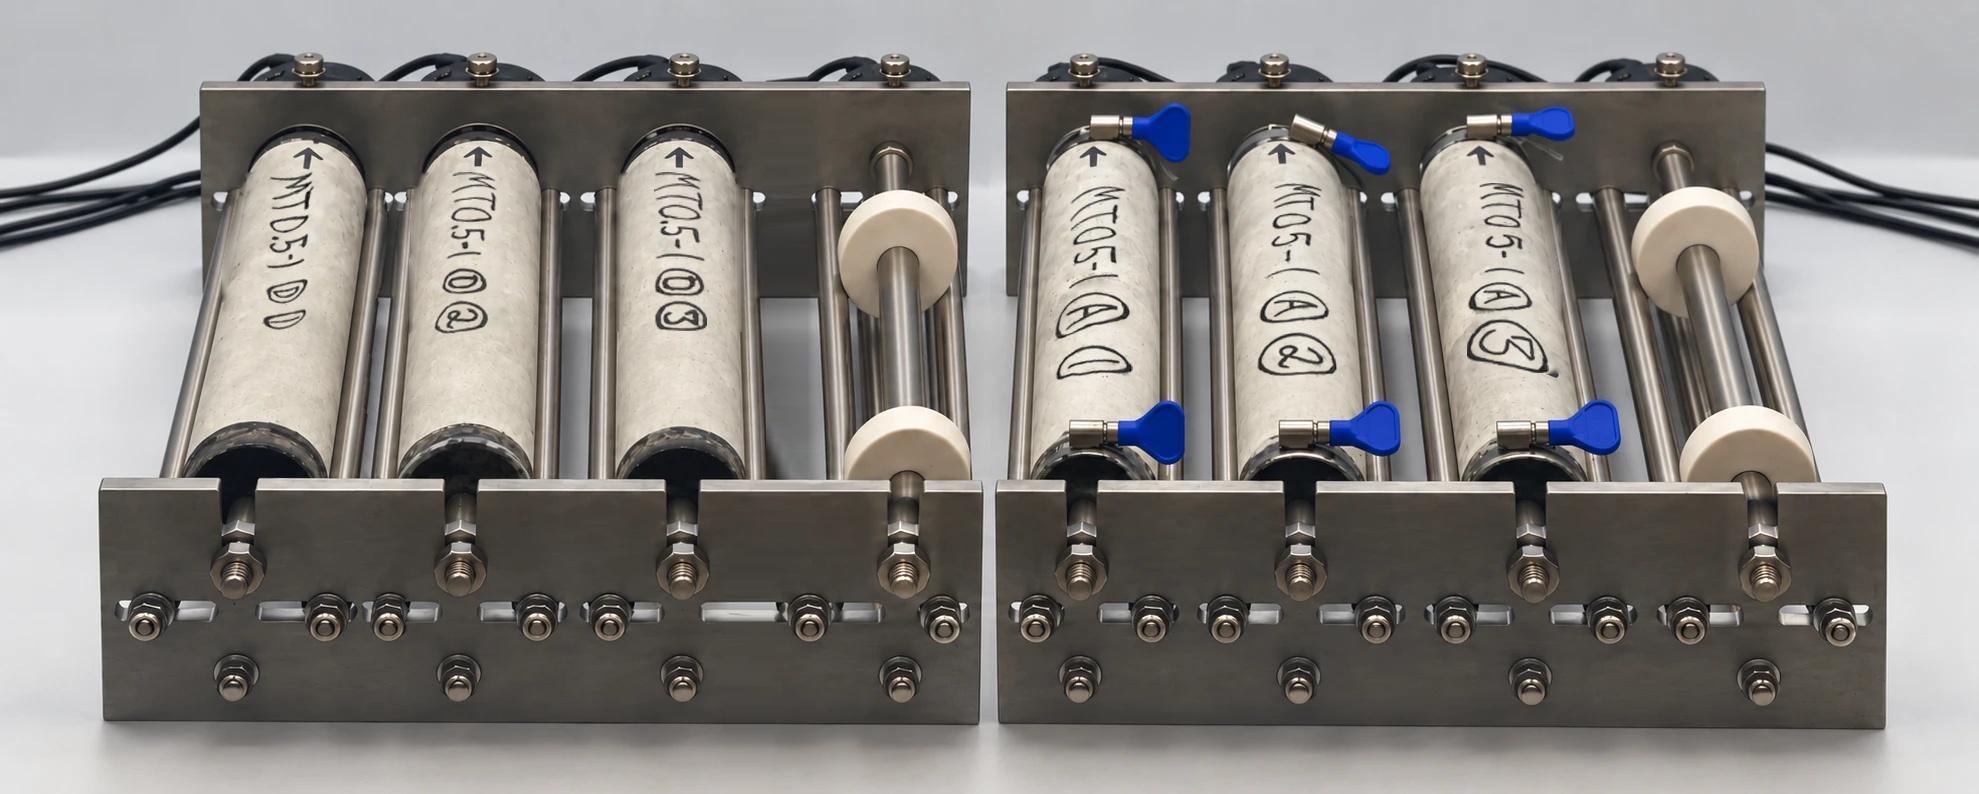
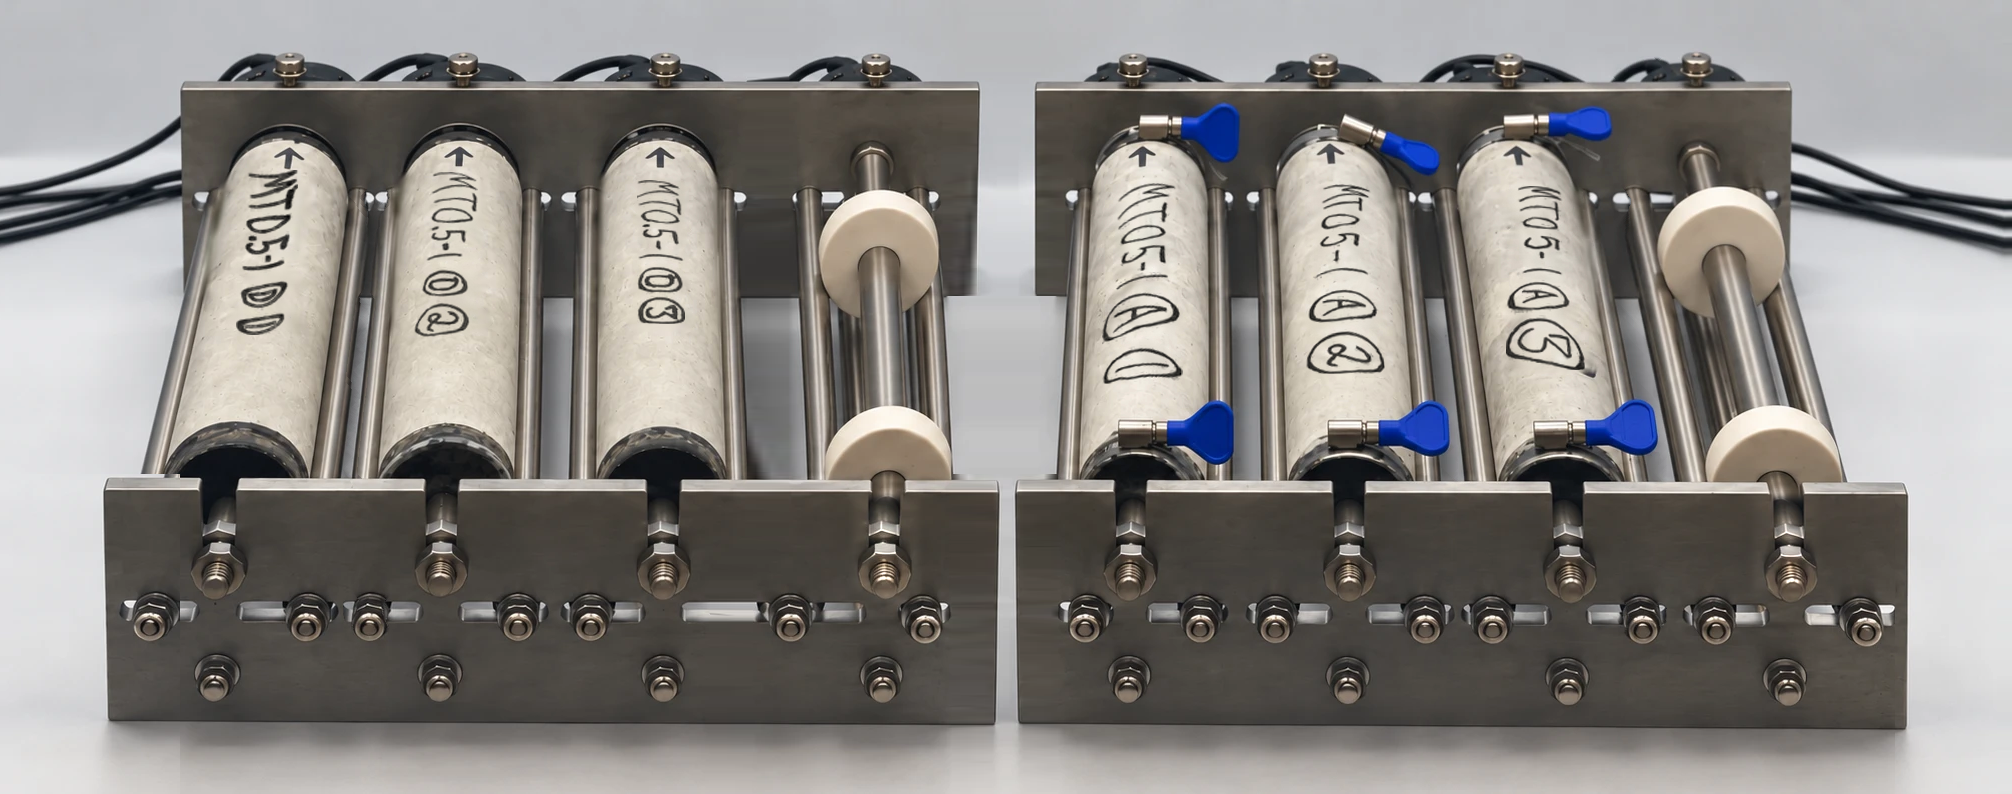
Fix frame proportions and label quality in edited Figure 1
- Labels: erase the AI text with FSR inpainting (rebuilds concrete texture
  instead of smearing), unwrap D1 from the cylinder surface so it is not
  foreshortened, keep the decimal points, one scale per photo series
- Frames: centre the bays in each front plate (end margins = half a bay, as
  measured on the real rig), centre the back plates over the specimens and
  even out the right frame's bays; plate is added/removed only in plain areas

Claude-Session: https://claude.ai/code/session_017fwkAQjt5JYwLzDNEhCw96

diff --git a/figures/relabel.py b/figures/relabel.py
@@ -14,6 +14,8 @@ SRC={'D1':(425,990,515,1120),'D2':(588,959,668,1096),'D3':(743,958,797,1082),
 # specimen axis angle in the photos (deg from vertical, + = top leans left), measured
 # from the cylinder edges; the text is rotated by this so it runs along the specimen
 AXIS={'D1':-18.4,'D2':-6.7,'D3':0.0,'A1':-16.0,'A2':-7.1,'A3':3.6}
+# one scale per photo so the handwriting size is consistent (A photo is ~7% closer)
+SCALE={'D':1.30,'A':1.22}
 DST={'D1':(222,172,342,342),'D2':(438,172,562,338),'D3':(652,172,778,332),
      'A1':(1042,186,1152,382),'A2':(1247,183,1352,377),'A3':(1447,183,1562,374)}
 
@@ -40,7 +42,35 @@ def keep_text(ink):
     ink&=~np.isin(lab,thin)
     grp,m=ndimage.label(ndimage.binary_dilation(ink,iterations=9))
     sz=ndimage.sum(ink,grp,range(1,m+1))
-    return ink&np.isin(grp,1+np.where(sz>=0.08*sz.sum())[0])
+    ink&=np.isin(grp,1+np.where(sz>=0.08*sz.sum())[0])
+    lab,n=ndimage.label(ink); sz=ndimage.sum(ink,lab,range(1,n+1))
+    return np.isin(lab,1+np.where(sz>=5)[0])
+
+# D1: axis point, axis direction (down the specimen) and radius, measured from the
+# cylinder edges at the label height in the D photo (unflipped)
+D1_CYL=dict(p0=(498.0,1000.0),d=(-0.3,1.0),R=44.0,t=(-35,165),s=(-0.97,0.97))
+
+def unwrap(rgb,p0,d,R,t,s):
+    """Sample the cylinder surface on a (along-axis, arc-length) grid, so text written
+    on the curving side is shown at its true proportions; axis ends up vertical."""
+    d=np.float32(d)/np.hypot(*d); n=np.float32([d[1],-d[0]])
+    if n[0]<0: n=-n
+    T=np.arange(t[0],t[1],dtype=np.float32)
+    S=np.arange(int(s[0]*R*np.pi/2),int(s[1]*R*np.pi/2),dtype=np.float32)
+    TT,SS=np.meshgrid(T,S,indexing='ij'); u=R*np.sin(SS/R)
+    mx=p0[0]+TT*d[0]+u*n[0]; my=p0[1]+TT*d[1]+u*n[1]
+    return cv2.remap(rgb,mx.astype(np.float32),my.astype(np.float32),cv2.INTER_CUBIC)
+
+def lift_d1(rgb_unflipped,thr=40):
+    reg=unwrap(rgb_unflipped,**D1_CYL)[::-1,::-1].copy()   # rotate 180: read like D2/D3
+    H,W=reg.shape[:2]; m=12
+    ink=np.zeros((H,W),bool); ink[m:-m,m:-m]=keep_text(ink_mask(reg,(m,m,W-m,H-m),thr,min_peak=90))
+    mm=ndimage.binary_dilation(ink,iterations=2)
+    clean=cv2.inpaint(reg,(mm*255).astype(np.uint8),5,cv2.INPAINT_TELEA).astype(np.float32)
+    f=np.where(mm,reg.astype(np.float32).mean(2)/np.maximum(clean.mean(2),1),1.0).clip(0,1)
+    f=cv2.erode(f,np.ones((2,2),np.uint8))
+    ys,xs=np.nonzero(ink)
+    return f[ys.min():ys.max()+2,xs.min():xs.max()+2]
 
 def lift(rgb,box,ang,thr=45):
     """Return a grey 'ink factor' patch (1 = no ink), rotated so the text runs vertically."""
@@ -58,22 +88,35 @@ def lift(rgb,box,ang,thr=45):
     ys,xs=np.nonzero(ir)
     return fr[ys.min():ys.max()+1,xs.min():xs.max()+1], ang
 
+def erase(img,mask,k=None,pad=40):
+    """Remove the AI text with frequency-selective-reconstruction inpainting
+    (cv2.xphoto, FSR), which rebuilds the concrete texture rather than smearing it."""
+    ys,xs=np.nonzero(mask)
+    y0,y1=max(ys.min()-pad,0),ys.max()+pad; x0,x1=max(xs.min()-pad,0),xs.max()+pad
+    crop=np.clip(img[y0:y1,x0:x1],0,255).astype(np.uint8)
+    valid=(~mask[y0:y1,x0:x1]).astype(np.uint8)*255
+    dst=np.zeros_like(crop)
+    cv2.xphoto.inpaint(crop,valid,dst,cv2.xphoto.INPAINT_FSR_FAST)
+    out=img.copy(); out[y0:y1,x0:x1]=dst.astype(np.float32)
+    return out
+
 def main(ai_p,d_p,a_p,out):
     ai=np.array(Image.open(ai_p).convert('RGB'))
-    d=np.array(Image.open(d_p).convert('RGB')); flip_label(d,(418,982,522,1132))
+    d0=np.array(Image.open(d_p).convert('RGB'))
     a=np.array(Image.open(a_p).convert('RGB'))
     res=ai.astype(np.float32)
     for k,(x0,y0,x1,y1) in DST.items():
         # 1) erase the AI text
         m=ink_mask(ai,(x0,y0,x1,y1),40,min_size=6)
-        m=ndimage.binary_dilation(m,iterations=3)
+        m=ndimage.binary_dilation(m,iterations=5)
         full=np.zeros(ai.shape[:2],np.uint8); full[y0:y1,x0:x1]=m*255
-        res=cv2.inpaint(np.clip(res,0,255).astype(np.uint8),full,6,cv2.INPAINT_TELEA).astype(np.float32)
+        res=erase(res,full>0,k)
         # 2) lift the real label and scale it to the AI label's length
-        f,ang=lift(d if k[0]=='D' else a,SRC[k],AXIS[k])
+        if k=='D1': f,ang=lift_d1(d0),AXIS[k]
+        else: f,ang=lift(d0 if k[0]=='D' else a,SRC[k],AXIS[k])
         ys,xs=np.nonzero(m)
-        h_ai=ys.max()-ys.min(); cx=x0+xs.mean(); cy=y0+(ys.min()+ys.max())/2
-        s=h_ai/f.shape[0]
+        cx=x0+xs.mean(); cy=y0+(ys.min()+ys.max())/2
+        s=SCALE[k[0]]
         f=cv2.resize(f,None,fx=s,fy=s,interpolation=cv2.INTER_CUBIC).clip(0,1)
         h,w=f.shape; px,py=int(round(cx-w/2)),int(round(cy-h/2))
         res[py:py+h,px:px+w]*=f[...,None]

diff --git a/figures/proportions.py b/figures/proportions.py
@@ -1,0 +1,71 @@
+"""Fix frame proportions in the edited AI figure so both frames match the real rig:
+bays centred in the front plate (end margins = half a bay, as measured on the real
+rig: 96 px margins at 193 px spacing) and the back plate centred over the specimens.
+Plain plate is added/removed between the end nut and the plate edge, inside the
+plate's own rows only, so no hardware is distorted."""
+import sys, numpy as np
+from PIL import Image
+
+FRONT=(474,794)      # rows of the front plate (+ its shadow)
+BACK=(78,296)        # rows of the back plate
+W6=6                 # width of the plain strip that gets stretched
+
+def expand(img,rows,x,n,side,lim):
+    """Stretch the plain strip [x,x+W6) to W6+n px. Content between the strip and
+    `lim` (a background column in the gap) moves outward; background past it is lost."""
+    out=img.copy(); r0,r1=rows
+    src=np.linspace(0,W6-1,W6+n)
+    for y in range(r0,r1):
+        seg=img[y,x:x+W6].astype(np.float32)
+        new=np.stack([np.interp(src,np.arange(W6),seg[:,c]) for c in range(3)],-1).astype(img.dtype)
+        if side=='right':
+            out[y,x+W6+n:lim]=img[y,x+W6:lim-n]; out[y,x:x+W6+n]=new
+        else:
+            out[y,lim:x-n]=img[y,lim+n:x]; out[y,x-n:x+W6]=new
+    return out
+
+def shrink(img,rows,x0,x1,side,lim):
+    """Remove columns [x0,x1); content between them and `lim` moves inward and the
+    freed columns next to `lim` are filled with that background column."""
+    out=img.copy(); r0,r1=rows; n=x1-x0
+    for y in range(r0,r1):
+        if side=='left':
+            out[y,lim+n:x1]=img[y,lim:x0]; out[y,lim:lim+n]=img[y,lim]
+        else:
+            out[y,x0:lim-n]=img[y,x1:lim]; out[y,lim-n:lim]=img[y,lim-1]
+    return out
+
+def fix(img,cut=988,D=68):
+    # make room: move the right frame D px to the right
+    bg=np.repeat(img[:,cut:cut+1],D,1)
+    img=np.concatenate([img[:,:cut],bg,img[:,cut:]],1)
+    # left frame: front margins 135/76 -> 111/111, back 105/77 -> 105/105
+    mid=cut+D//2; W=img.shape[1]
+    img=shrink(img,FRONT,175,199,'left',0)
+    img=expand(img,FRONT,971,35,'right',mid)
+    img=expand(img,BACK,962,28,'right',mid)
+    # right frame (+D): front margins 81/123 -> 114/114, back 78/98 -> 98/98
+    img=expand(img,FRONT,1003+D,29,'left',mid)
+    img=shrink(img,FRONT,1869+D,1874+D,'right',W)
+    img=expand(img,BACK,1008+D,20,'left',mid)
+    return img[:,19:]     # equal outer margins
+
+
+
+def even_right_frame(img):
+    """Right frame bays were 221/233/232 px: remove 12 and 11 px (seam carving, confined
+    to the gaps between specimens) so all three are ~221, like the left frame."""
+    import respace
+    respace.R=img.shape[1]
+    return respace.run(img,[(1400,1470,-12),(1613,1678,-11)])
+
+def finish(img):
+    img=even_right_frame(fix(img))
+    # trim so the outer margins (plate edge to image edge) are equal
+    g=img.astype(np.float32).mean(2)[650]
+    e=np.where(np.abs(np.diff(g))>25)[0]; l,r=e[0],e[-1]
+    m=min(l,img.shape[1]-r)
+    return img[:,l-m:r+m]
+
+if __name__=='__main__':
+    Image.fromarray(finish(np.array(Image.open(sys.argv[1]).convert('RGB')))).save(sys.argv[2])

diff --git a/figures/edit_ai_figure.py b/figures/edit_ai_figure.py
@@ -3,11 +3,14 @@
                     lifted from the lightbox photos (D1 rotated 180 deg like D2/D3)
   2. fixbay4.py   - give the spacer bay the same threaded rod + nuts as the specimen bays
   3. respace.py   - even out the left frame's bay spacing (seam carving / plain-area stretch)
+  4. proportions.py - centre the bays in each front plate (end margins = half a bay, as on
+                    the real rig), centre the back plates, even out the right frame's bays
+Needs opencv-contrib-python (cv2.xphoto) for the label erase.
 Usage: python3 edit_ai_figure.py ai.webp D.jpg A.jpg out.png
 """
 import sys, os, tempfile, numpy as np
 from PIL import Image
-import relabel, fixbay4, respace
+import relabel, fixbay4, respace, proportions
 ai,d,a,out=sys.argv[1:5]
 tmp=os.path.join(tempfile.mkdtemp(),'relabeled.png')
 relabel.main(ai,d,a,tmp)
@@ -15,4 +18,5 @@ img=fixbay4.fix(np.array(Image.open(tmp).convert('RGB')))
 img=respace.run(img,[(362,438,-29),(560,650-29,-7)])
 y=np.arange(img.shape[0])
 path=np.interp(y,[0,535,570,img.shape[0]],[805,805,768,768])-36-3
-Image.fromarray(respace.stretch_path(img,path,36)).save(out)
+img=respace.stretch_path(img,path,36)
+Image.fromarray(proportions.finish(img)).save(out)
